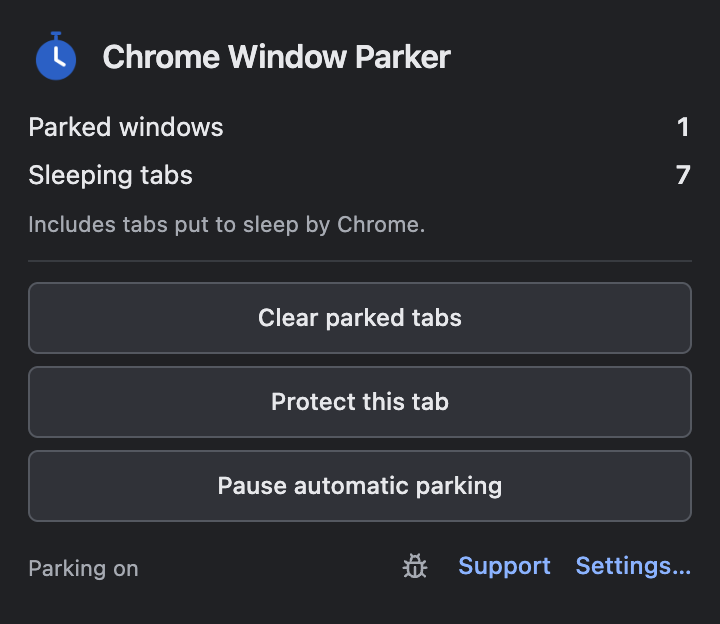
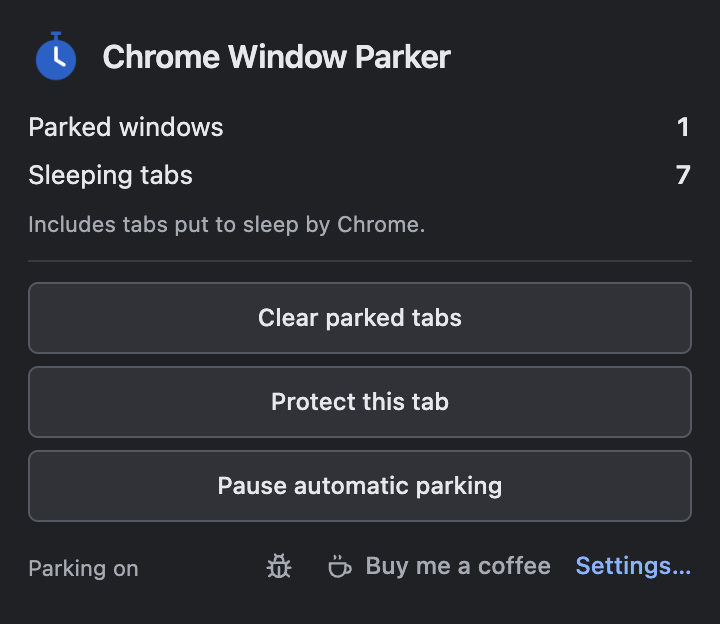
Show a coffee cup and "Buy me a coffee" instead of a vague Support link
The popup footer had a bug icon for reporting problems next to a
"Support" link that opened Buy Me a Coffee. Screen readers heard two
"support"-sounding controls.

- The link now shows a small inline coffee cup and the plain words "Buy
  me a coffee", in the popup and in Settings.
- In the popup it is muted, so Settings… stays the most visible link.
- Its accessible name is "Buy me a coffee (opens in a new tab)". The bug
  icon keeps "Report a bug on GitHub".
- Both still open one fixed page after a deliberate click.
- The footer stays on one line at the popup's fixed 360 px width for
  every status text.

The README gets back Buy Me a Coffee's graphical button (the official
image, 217 px wide), linking to the same page. Docs that named the old
button say "Buy me a coffee" now.

Store screenshots 2 (popup) and 5 (dark), which show the popup footer,
are regenerated from fresh captures. Every other Store image is
unchanged. Screenshots 3 and 4 re-render byte-identically from the new
Settings capture, whose change is below both crops.

Changed region(s): [[0.4583, 0.883, 0.7639, 0.9439], [0.3667, 0.883, 0.3972, 0.9439]]

diff --git a/popup.html b/popup.html
@@ -4,5 +4,5 @@
 <dl class="stats"><div><dt>Parked windows</dt><dd id="parkedCount">—</dd></div><div><dt>Sleeping tabs</dt><dd id="sleepingCount">—</dd></div></dl>
 <p class="hint stats-help">Includes tabs put to sleep by Chrome.</p>
 <div class="popup-actions"><button id="closeParked" disabled title="Returns parked windows to their normal tabs.">Clear parked tabs</button><button id="protect" disabled title="Protection lasts for this browser session.">Protect this tab</button><button id="toggle" disabled>Pause automatic parking</button></div>
-<div class="popup-footer"><span id="mode" class="hint">Checking status…</span><div class="popup-links"><button class="icon-button" id="reportBug" type="button" aria-label="Report a bug on GitHub (opens in a new tab)" title="Report a bug"><svg viewBox="0 0 24 24" aria-hidden="true" fill="none" stroke="currentColor" stroke-width="1.8" stroke-linecap="round" stroke-linejoin="round"><path d="M9 7.4a3 3 0 0 1 6 0"/><path d="M8 9h8a1 1 0 0 1 1 1v4a5 5 0 0 1-10 0v-4a1 1 0 0 1 1-1Z"/><path d="M12 12v7M7 12.5H4M17 12.5h3M7.5 16.5 5 18.5M16.5 16.5l2.5 2M7.4 10 5 8M16.6 10 19 8M10.2 4.6 9.2 3.2M13.8 4.6l1-1.4"/></svg></button><button class="text-button" id="support" type="button" aria-label="Support Chrome Window Parker on Buy Me a Coffee (opens in a new tab)" title="Support Chrome Window Parker on Buy Me a Coffee — opens in a new tab">Support</button><button class="text-button" id="options">Settings…</button></div></div>
+<div class="popup-footer"><span id="mode" class="hint">Checking status…</span><div class="popup-links"><button class="icon-button" id="reportBug" type="button" aria-label="Report a bug on GitHub (opens in a new tab)" title="Report a bug"><svg viewBox="0 0 24 24" aria-hidden="true" fill="none" stroke="currentColor" stroke-width="1.8" stroke-linecap="round" stroke-linejoin="round"><path d="M9 7.4a3 3 0 0 1 6 0"/><path d="M8 9h8a1 1 0 0 1 1 1v4a5 5 0 0 1-10 0v-4a1 1 0 0 1 1-1Z"/><path d="M12 12v7M7 12.5H4M17 12.5h3M7.5 16.5 5 18.5M16.5 16.5l2.5 2M7.4 10 5 8M16.6 10 19 8M10.2 4.6 9.2 3.2M13.8 4.6l1-1.4"/></svg></button><button class="text-button coffee-link" id="support" type="button" aria-label="Buy me a coffee (opens in a new tab)" title="Support Chrome Window Parker on Buy Me a Coffee"><svg viewBox="0 0 24 24" aria-hidden="true" fill="none" stroke="currentColor" stroke-width="1.8" stroke-linecap="round" stroke-linejoin="round"><path d="M4.5 10h11.5v4.25A5.75 5.75 0 0 1 10.25 20h0A5.75 5.75 0 0 1 4.5 14.25Z"/><path d="M16 11.5h1.25a2.75 2.75 0 0 1 0 5.5H16"/><path d="M8 6.5c.7-.6.7-1.4 0-2M11.75 6.5c.7-.6.7-1.4 0-2"/></svg><span>Buy me a coffee</span></button><button class="text-button" id="options">Settings…</button></div></div>
 <p id="status" role="status" aria-live="polite"></p></body></html>

diff --git a/tests/support.test.js b/tests/support.test.js
@@ -54,6 +54,25 @@ for(const [input,detail] of [['mouse',1],['keyboard',0]])test(`deliberate ${inpu
   assert.match(read(name+'.js'),/bindIssues\(\$\('reportBug'\)/);assert(!read(name+'.html').includes(ISSUES_URL));
  }
 });
+test('popup and Settings: a quiet Buy me a coffee link with a cup, clearly distinct from Report a bug',()=>{
+ for(const name of ['popup','options']){
+  const html=read(name+'.html'),coffee=html.match(/<button class="text-button coffee-link" id="support"[^>]*>.*?<\/button>/)?.[0];
+  assert(coffee,name);
+  assert.match(coffee,/aria-label="Buy me a coffee \(opens in a new tab\)"/,'the accessible name starts with the visible label');
+  assert.match(coffee,/title="Support Chrome Window Parker on Buy Me a Coffee"/);
+  assert.match(coffee,/<svg viewBox="0 0 24 24" aria-hidden="true"[^>]*>.*<\/svg><span>Buy me a coffee<\/span><\/button>$/,'an inline cup: no image request');
+  assert(!/<button[^>]*>Support( development)?<\/button>/.test(html),`${name}: no vague "Support" control`);
+  assert.match(html,/id="reportBug"[^>]*aria-label="Report a bug on GitHub \(opens in a new tab\)"/);
+ }
+ const links=read('popup.html').match(/<div class="popup-links">(.*?)<\/div>/)[1];
+ assert.deepEqual([...links.matchAll(/<button[^>]*id="(\w+)"/g)].map(m=>m[1]),['reportBug','support','options'],'bug, coffee, then Settings');
+ const css=read('ui.css');
+ assert.match(css,/\.popup-links \.coffee-link \{ color: var\(--muted\); \}/,'quieter than Settings');
+ assert.match(css,/\.popup-footer \{[^}]*white-space: nowrap/,'one line');
+ assert.match(css,/html\.popup-root \{ width: 360px; min-width: 360px; \}/,'the fixed width the footer is laid out for');
+ // The README's graphical button goes to the same page as the extension's link.
+ assert(read('README.md').includes(`<a href="${SUPPORT_URL}"><img src="https://cdn.buymeacoffee.com/buttons/v2/default-blue.png" alt="Buy Me a Coffee" width="217"></a>`));
+});
 test('permission list and restrictive CSP remain unchanged; no external resources or payment integration',()=>{
  const m=JSON.parse(read('manifest.json'));assert.deepEqual(m.permissions,['tabs','storage','alarms','downloads']);assert.equal(m.host_permissions,undefined);assert.equal(m.content_scripts,undefined);
  assert.equal(m.content_security_policy.extension_pages,"default-src 'self'; script-src 'self'; style-src 'self'; img-src 'self'; connect-src 'none'; object-src 'none'; base-uri 'none'; form-action 'none'; frame-src 'none'");

diff --git a/options.html b/options.html
@@ -66,7 +66,7 @@
 </form>
 <section class="support-section" aria-labelledby="support-heading"><h2 id="support-heading">Support</h2>
 <p class="hint">Something not working? Report it on GitHub. Chrome Window Parker is free and open source; if it’s useful to you, you can also support its development.</p>
-<div class="support-links"><button class="text-button bug-link" id="reportBug" type="button" aria-label="Report a bug on GitHub (opens in a new tab)" title="Report a bug on GitHub"><svg viewBox="0 0 24 24" aria-hidden="true" fill="none" stroke="currentColor" stroke-width="1.8" stroke-linecap="round" stroke-linejoin="round"><path d="M9 7.4a3 3 0 0 1 6 0"/><path d="M8 9h8a1 1 0 0 1 1 1v4a5 5 0 0 1-10 0v-4a1 1 0 0 1 1-1Z"/><path d="M12 12v7M7 12.5H4M17 12.5h3M7.5 16.5 5 18.5M16.5 16.5l2.5 2M7.4 10 5 8M16.6 10 19 8M10.2 4.6 9.2 3.2M13.8 4.6l1-1.4"/></svg><span>Report a bug</span></button><button class="text-button" id="support" type="button" aria-label="Support Chrome Window Parker on Buy Me a Coffee (opens in a new tab)" title="Opens Buy Me a Coffee in a new tab">Support development</button></div>
+<div class="support-links"><button class="text-button bug-link" id="reportBug" type="button" aria-label="Report a bug on GitHub (opens in a new tab)" title="Report a bug on GitHub"><svg viewBox="0 0 24 24" aria-hidden="true" fill="none" stroke="currentColor" stroke-width="1.8" stroke-linecap="round" stroke-linejoin="round"><path d="M9 7.4a3 3 0 0 1 6 0"/><path d="M8 9h8a1 1 0 0 1 1 1v4a5 5 0 0 1-10 0v-4a1 1 0 0 1 1-1Z"/><path d="M12 12v7M7 12.5H4M17 12.5h3M7.5 16.5 5 18.5M16.5 16.5l2.5 2M7.4 10 5 8M16.6 10 19 8M10.2 4.6 9.2 3.2M13.8 4.6l1-1.4"/></svg><span>Report a bug</span></button><button class="text-button coffee-link" id="support" type="button" aria-label="Buy me a coffee (opens in a new tab)" title="Support Chrome Window Parker on Buy Me a Coffee"><svg viewBox="0 0 24 24" aria-hidden="true" fill="none" stroke="currentColor" stroke-width="1.8" stroke-linecap="round" stroke-linejoin="round"><path d="M4.5 10h11.5v4.25A5.75 5.75 0 0 1 10.25 20h0A5.75 5.75 0 0 1 4.5 14.25Z"/><path d="M16 11.5h1.25a2.75 2.75 0 0 1 0 5.5H16"/><path d="M8 6.5c.7-.6.7-1.4 0-2M11.75 6.5c.7-.6.7-1.4 0-2"/></svg><span>Buy me a coffee</span></button></div>
 <p id="supportStatus" role="status" aria-live="polite"></p></section>
 <footer class="page-footer">Works alongside Chrome Memory Saver. Nothing is sent to the developer.</footer>
 </main></body></html>

diff --git a/ui.css b/ui.css
@@ -157,6 +157,11 @@ button.icon-button:hover { color: var(--text); background: var(--button); }
 .support-section .text-button { padding-left: 0; font-size: 13px; }
 .bug-link { display: inline-flex; align-items: center; gap: 6px; }
 .bug-link svg { flex: none; width: 16px; height: 16px; }
+/* Buy me a coffee: a small cup and a plain label. In the popup it stays quieter than Settings. */
+.coffee-link { display: inline-flex; align-items: center; gap: 5px; }
+.coffee-link svg { flex: none; width: 16px; height: 16px; }
+.popup-links .coffee-link { color: var(--muted); }
+.popup-links .coffee-link:hover { color: var(--text); }
 #supportStatus:empty { display: none; }
 #supportStatus { margin-top: 8px; font-size: 12px; }
 

diff --git a/TESTING.md b/TESTING.md
@@ -47,7 +47,7 @@ Use a separate Chrome profile with nothing important in it, and note the extensi
 10. **Sync.** On two computers signed in to the same Chrome profile with sync on: turn on one setting on each and check a changed value arrives and applies. A different existing value must ask which to keep. Turning sync off keeps the value, and pausing never syncs.
 11. **Restarts.** Try the worker stopping by itself, an extension reload, a browser restart, disabling and re-enabling, and computer sleep. Interrupted return delays start again; interrupted batches don't resume. Leave a window you've used for longer than the parking delay while the worker is stopped: it must still wait a full delay after you leave.
 12. **Look and feel.** Check Light, Dark and Auto (the header switch applies immediately) across Settings, the popup and the parked page. Open Protect individual tabs with many tabs: the list scrolls inside its box, with a fade and a small arrow at the bottom while there's more below. Both go away at the end of the list.
-13. **Links and network.** Report a bug and Support open one tab each, only when clicked, by mouse or keyboard. Extension pages load only their own files.
+13. **Links and network.** Report a bug and Buy me a coffee open one tab each, only when clicked, by mouse or keyboard. Extension pages load only their own files.
 
 For memory comparisons, see [Checking memory savings](docs/BEHAVIOR.md#checking-memory-savings).
 

diff --git a/README.md b/README.md
@@ -34,4 +34,8 @@ Found a bug? [Open an issue](https://github.com/montybwolfe/chrome-window-parker
 
 There's no build step: load this folder as an unpacked extension. `npm test` runs the tests and `python3 scripts/package.py` builds the release ZIP. See [Testing](TESTING.md) and the [changelog](CHANGELOG.md).
 
-Chrome Window Parker is free and open source ([MIT](LICENSE)). If it's useful to you, you can [buy me a coffee](https://buymeacoffee.com/montybwolfe). It's an independent project, not affiliated with or endorsed by Google.
+Chrome Window Parker is free and open source ([MIT](LICENSE)). If it's useful to you, you can buy me a coffee:
+
+<a href="https://buymeacoffee.com/montybwolfe"><img src="https://cdn.buymeacoffee.com/buttons/v2/default-blue.png" alt="Buy Me a Coffee" width="217"></a>
+
+It's an independent project, not affiliated with or endorsed by Google.

diff --git a/docs/BEHAVIOR.md b/docs/BEHAVIOR.md
@@ -87,7 +87,7 @@ Recovery records are deleted when their window closes or returns to normal. Up t
 | `alarms` | Parking checks and return-delay recovery while the worker is stopped. |
 | `downloads` | Checking whether a download is in progress. Chrome describes it as "Manage your downloads"; downloads are never started, opened, changed or deleted. |
 
-There are no host permissions, content scripts or remote code, and extension pages can't make network connections. Report a bug and Support open a fixed web page in a new tab only when you click them.
+There are no host permissions, content scripts or remote code, and extension pages can't make network connections. Report a bug and Buy me a coffee open a fixed web page in a new tab only when you click them.
 
 ## Checking memory savings
 

diff --git a/PRIVACY.md b/PRIVACY.md
@@ -21,7 +21,7 @@ A parked window's recovery record is deleted when the window closes or goes back
 
 ## Links
 
-The Report a bug and Support buttons open GitHub or Buy Me a Coffee in a new tab, only when you click them. Nothing about your tabs or browsing is sent with them. Those sites have their own privacy policies. Support is optional, unlocks nothing, and Chrome Window Parker receives no payment or supporter details.
+The Report a bug and Buy me a coffee buttons open GitHub or Buy Me a Coffee in a new tab, only when you click them. Nothing about your tabs or browsing is sent with them. Those sites have their own privacy policies. Support is optional, unlocks nothing, and Chrome Window Parker receives no payment or supporter details.
 
 ## Chrome Web Store policy
 
